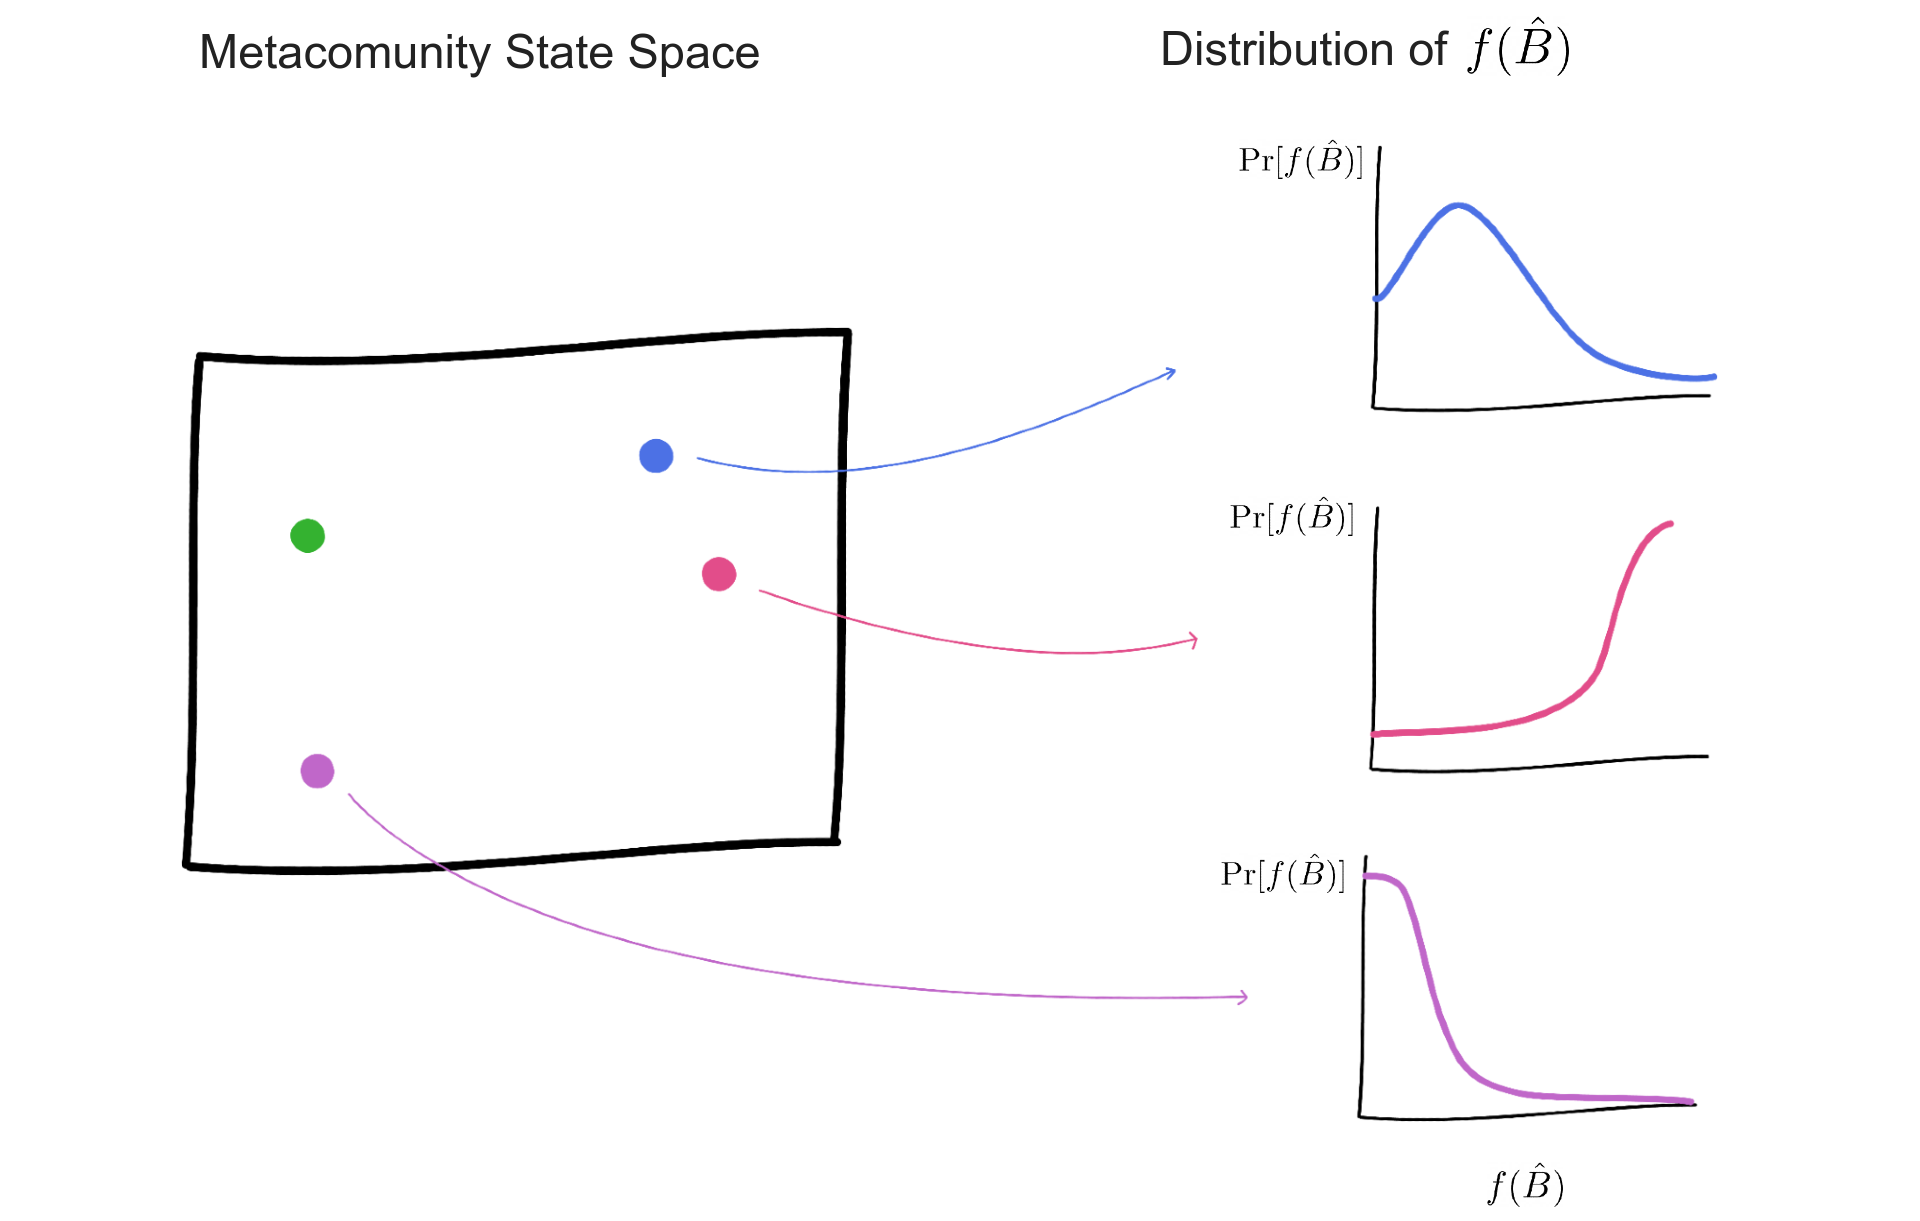
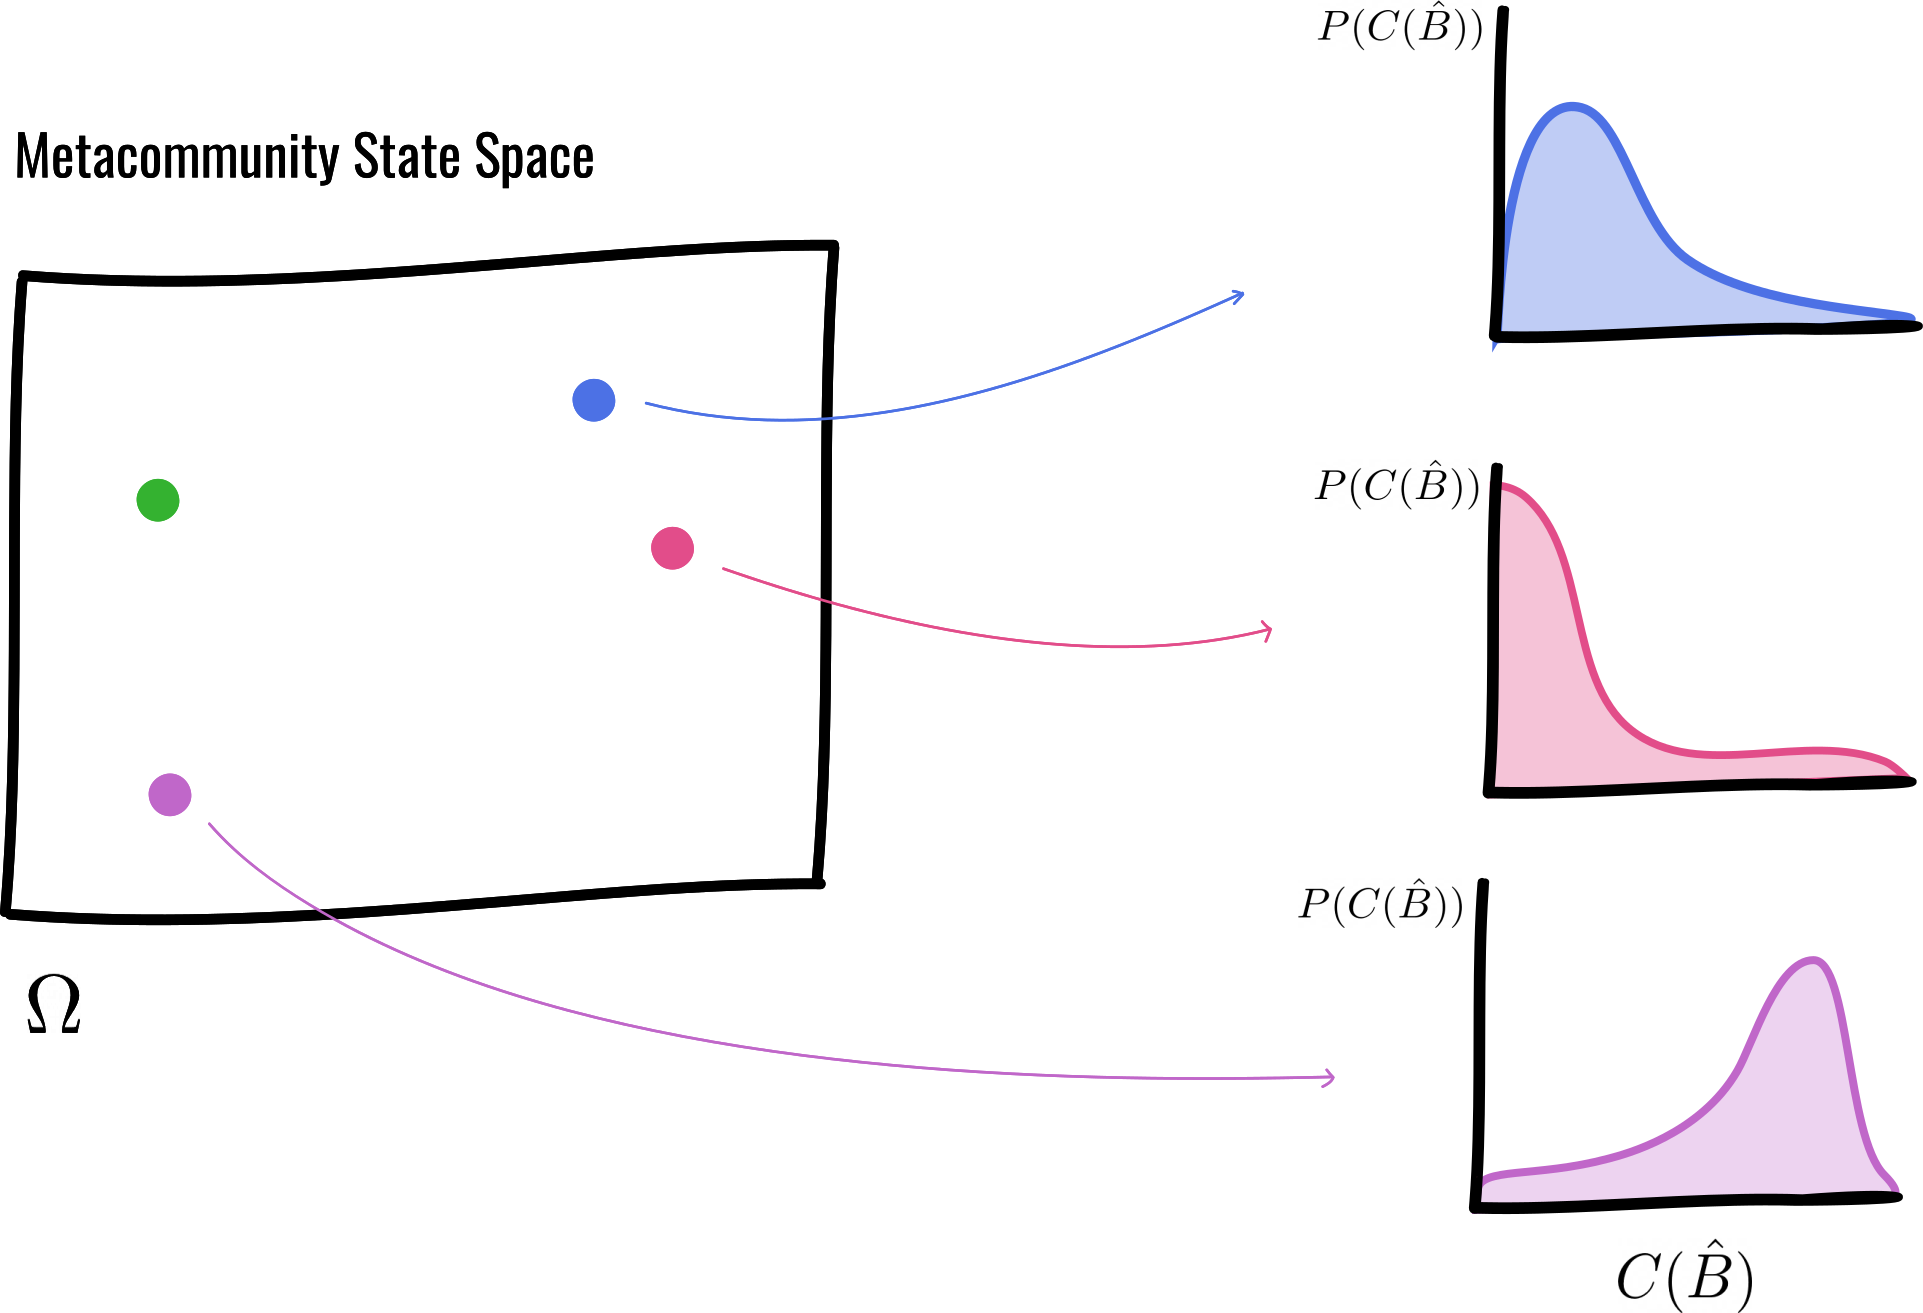
remade some figures

diff --git a/tex/preamble.tex b/tex/preamble.tex
@@ -24,6 +24,8 @@
 \predate{\begin{flushleft}\large}
 \postdate{\end{flushleft}}
 
+\usepackage{float}
+\floatplacement{figure}{H}
 
 \usepackage{morefloats}
 % or use \extrafloats{100}

diff --git a/prospectus.md b/prospectus.md
@@ -87,7 +87,11 @@ If $\hat{y} \approx  y$, we say our model $f$ is "good", and we Google "Nature s
 
 
 
-Many of the more popular methods (AIC, BIC, MDL, k-fold crossvalidation) exist as What separates science from philosophy? For most of recorded human history, science and philosophy were not separate disciplines, and most languages didn't have words to distinguish a scientist from a philosopher.
+Many of the more popular methods (AIC, BIC, MDL, k-fold crossvalidation) follow the hueristic that models should maximize the ratio of the information they provide in predictive power to the amount of information they contain in their definition. 
+
+
+
+What separates science from philosophy? For most of recorded human history, science and philosophy were not separate disciplines, and most languages didn't have words to distinguish a scientist from a philosopher.
 
 > In fact, the sciences, arts, and philosophies are all equally creators. . . Concepts do not wait for us ready-made, like celestial bodies. There is no heaven for concepts. They must be invented, fabricated, or rather created, and would be nothing without the signature of those who create them. (Deleuze & Guattari 1991)
 
@@ -95,27 +99,15 @@ I would contest science restricts itself to models that allow some interface bet
 
 
 
-To make a comparison between a model and "ground truth", there must be some way to observe and measure the concepts $A$. More formally, there must be some observation mapping $g: A \to \mathbb{R}^{d_1}$, where $d_1$ is the dimensionality of our measuremennt. And so scientific models inevitably create a mapping between observable states of the concepts as we define them, and quantitative predicted outcomes, $f : g(A) \to \mathbb{R}^{d_2}$. (Generally, $d_2 << d_1$, otherwise we've just found a new way of shuffling around the same information in the data.)
+To make a comparison between a model and "ground truth", there must be some way to observe and measure the concepts $A$. More formally, there must be some observation mapping $O: A \to \mathbb{R}^{d_1}$, where $d_1$ is the dimensionality of our measuremennt. And so scientific models inevitably create a mapping between observable states of the concepts as we define them, and quantitative predicted outcomes, $f : O(A) \to \mathbb{R}^{d_2}$. (Generally, $d_2 << d_1$, otherwise we've just found a new way of shuffling around the same information in the data.)
+
+In Halley's model $A = \{\text{Sun}, \text{Jupiter}, \text{Saturn}, \text{Earth}, \text{Comet} \}$, and $O(A) = \{\text{mass}, \text{position}, \text{momentum}\}$.
 
 
 
+And so those who are interested in (building, designing, using, etc.) models face the task of defining $f$ in such a way that it (hopefully) makes accurate predictions.
 
-
-In Halley's model $A = \{\text{Sun}, \text{Jupiter}, \text{Saturn}, \text{Earth}, \text{Comet} \}$, and $g(A) = \{\text{mass}, \text{position}, \text{momentum}\}$.
-
-And so the question for those who are interested in (building, designing, using, etc.) models face the task of defining $f$ in such a way that it (hopefully) makes accurate predictions.
-
-We can broadly split models into two types: process models and statistical models (@mcelreath).
-
-Other types of statistical models (typically those that fall under the ambiguous banner "machine learning") do not define $f$ with much regard towards the actual concepts in $A$ at all, but instead are cleverly designed algorithms which can accurately map input conditions to output conditions in some cases.
-
-
-
-Models do many different things: hypothesis testing, inference, parameter estimation, forecasting,etc.
-
-
-
-Often, when we do science, models are only a bridge between the data we collect and actual hypotheses. See the figure below from @mcelreath.
+We can broadly split models into two types: process models and statistical models (@mcelreath). Other types of statistical models (typically those that fall under the ambiguous banner "machine learning") do not define $f$ with much regard towards the actual concepts in $A$ at all, but instead are cleverly designed algorithms which can accurately map input conditions to output conditions in some cases. Models do many different things: hypothesis testing, inference, parameter estimation, forecasting,etc. Often, when we do science, models are only a bridge between the data we collect and actual hypotheses. See the figure below from @mcelreath.
 
 
 
@@ -145,7 +137,7 @@ As an example, consider fitting a species-distribution model (SDM), $y = f(x, \t
 
 In a frequentist world, the likelihood function is a ubiquitous tool  for parameter inference. Most off-the-shelf statistical 'tests', e.g. `model = lm(y ~ a*x + b)`, are simply a repackaged likelihood function that can be used to  estimate parameters via maximum likelihood or any other frequentist  estimation method.  Similarly, in a Bayesian world, the likelihood  function is essential in the application of Bayes' theorem to inference,
 
-$$ P(\theta | \hat{x}) = \frac{P(\hat{x} | \theta)  P(\theta)}{P(\hat{x})} = \frac{\mathbb{L}(\hat{x}, \theta)  P(\theta)}{\int_\Theta \mathbb{L(\hat{x} | \theta)} P(\theta) d\theta}$$
+$$ P(\theta | \hat{x}) = \frac{P(\hat{x} | \theta)  P(\theta)}{P(\hat{x})} = \frac{\mathbb{L}(\hat{x}, \theta)  P(\theta)}{\int_\Theta \mathbb{L}(\hat{x} | \theta) P(\theta) d\theta}$$
 
 
 
@@ -193,6 +185,28 @@ Remaining questions:
 ## Community Structure
 
 The search for generality among ecological communities long flummoxed early ecologists, culminating in the aphorism that community ecology is "a mess" (citation).
+
+
+
+Early theoretical work on community structure begins with the Diversity-Stability "Paradox", largely attributed to  May's _Will a Large Complex System be Stable_ (@cite) and _Stability and Complex is Model Ecosystems_ (@cite). May's work considered both a linear system, $\dot{x} = A\vec{x}$, and a generalized Lotka-Volterra system, $\dot{x} = \vec{x} \odot (A \vec{x} + \vec{g})$, where $\vec{x}$ is a vector of abundances, $\vec{g}$ is a vector of change in abundance absent any comsumption and $A_{ij}$ between any species $i$ and $j$ is the interaction strength^[itself a term fraught with ambiguity] . 
+
+
+
+May' computations showed that as the number of species $N_s$ in the randomly generated food-web $A$ increased, the probability that the system persists approaches $0$. There is where the so-called 'paradox' lies--we observe food-webs in nature that are interwoven between far more species than we would expect under May's neutral model, and so naturally the study of complexity in food webs turned to both understanding the processes that structure food webs such that they can persist, and developing methods to infer the structure of ecological networks.  
+
+
+
+What is 'stable'? Fixed-point stability in a determinstic system. One can compute the stability of a fixed-point by checking if the eigenvalues of the Jacobian around any fixed point. For both of these model, the Jacobian around a fixed point is always the adjacency matrix, and so without computing any Jacobians we can simply check if $\{ \text{Re}(\lambda) < 0 \}  \ \ \forall\lambda$ to determine if the system has a fixed-point attractor. This is a method of computing Lyapunov-stability of a fixed point in a system, and was tractable for the computers of the time.
+
+May's used a generative model of community structure where all terms $$A_{ij} \sim Bernoulli(p)$$. This is the same as the graph generator $G(n,p)$, (Erdos). 
+
+Both in network science and ecology, generative models of network structure have turned to embedding the verticies in a latent space from which one follows a set of rules to determine which edges $A_{ij}$ exist. In ecology, the latent-space is typically a proxy for trophic-level or allometric scaling, beginning with the Cascase model (cite), drawing much more attention with the Niche model (@williams_martinez), and culminating in a generalized multi-dimensional niche model with a likelihood function that can be used to estimate latent parameters from empirical food webs.
+
+
+
+
+
+
 
 
 
@@ -302,10 +316,20 @@ Generative models?? Why do we need generative models--
 
 four parts:
 
-1. Community Model: the topology of the metaweb $A$, and the way the biomass flows through the metaweb, $\frac{\partial B}{\partial t}$
-2. Spatial Model: we have some set of locations ${x}$  in a spatial domain $S$. Each location $x$ is associated with a value of habitat suitability $H_i(x)$ for each species $i$, and a dispersal potential $\Phi_i(x \to y)$, which is the instantaneous probability that a unit of biomass from species $i$ moves from $x \to y \quad \forall x,y \in S$.
-3. Selection Model: how do the traits $T_i(x,t)$ of a species $i$  at a location $x$ at time $t$ change?   $\frac{\partial T_i(x,t)}{\partial t} = w (H_i(x,t), T_i(x,t))$
+1. Community Model: $\{A, \frac{\partial B}{\partial t}\}$
+
+   The topology of the metaweb $A$, and the way the biomass flows through the metaweb, $\frac{\partial B}{\partial t}$
+
+2. Spatial Model: $\{\Phi, L\}$
+
+   we have some set of locations ${x}$  in a spatial domain $S$. Each location $x$ is associated with a value of habitat suitability $H_i(x)$ for each species $i$, and a dispersal potential $\Phi_i(x \to y)$, which is the instantaneous probability that a unit of biomass from species $i$ moves from $x \to y \quad \forall x,y \in S$.
+
+3. Selection Model:
+
+    how do the traits $T_i(x,t)$ of a species $i$  at a location $x$ at time $t$ change?   $\frac{\partial T_i(x,t)}{\partial t} = w (H_i(x,t), T_i(x,t))$
+
    1. phylogenetic reading
+
 4. Community Summary Model  $C(\vec{B})$
 
 
@@ -387,12 +411,12 @@ $$\frac{\partial T_i(x,t)}{\partial t} = f(T_i(x), H_i(x))$$
 ## 4. Measuring (Meta)community Structure
 
 - $\hat{B}$ -- observed community at some time $t$ and some location $x_j$
-- types of measures of network structure
-  - $f({\hat{B}})$, singular.
-    - a measure of $\alpha$-div
+- types of measures of network structure, $C$ 
+  - $C({\hat{B}(L_i)})$, singular.
+    - a measure of $\alpha$-div at local community level
     - most classic measures, Shannon entropy, etc.
-  - $f(\hat{B}(x_j), \hat{B}(x_k))$, measure of difference between two networks, $\beta$-diversity
-  - $G(B)$ , measures of total structure across all locations (and times?),  $\gamma$-diversity
+  - $C(\hat{B}(x_j), \hat{B}(x_k))$, measure of difference between two networks, $\beta$-diversity
+  - $C(\hat{B})$ , measures of total structure across all locations (and times?),  $\gamma$-diversity
 
 
 \pagebreak
@@ -407,19 +431,43 @@ Okay...but how do you classify the 'stability' of a non-equilibrium system---
 
 
 
-![this is a caption](/home/michael/prospectus/figures/density_plot.jpg)
-
-
-
-ff
+![this is a caption](/home/michael/prospectus/figures/density_plot.png)
 
 
 
 
 
-![this is the punchline](/home/michael/prospectus/figures/different_scenarios.png)
+![Conceptual overview of Approximate Bayesian Computation (ABC). The version of an ABC Sampler presented here is methodologically the simplest (and original) version, based on using a simulated likelihood to run a rejection-based sampling MCMC algorithm. In panel 2 (top-right), to actually compute $\mathbb{L}(\hat{y} | \theta)$ from simulation outputs, traditionally one defineds an acceptance tolerance $\rho$, and accepts $\hat{y} - y_{sim} < \rho$ . Alternatively, one can run some regression on the on the simulation outcomes to get an analytic approximation of $\mathbb{L}(\hat{y} | \theta)$.  More recent improvements to ABC sampling deviate from simple rejection sampling algorithms for efficiency, e.g. doing rejection sampling whilst composing the simulated likelihood to reduce the amount of time spent running the simulation model in "bad" regions of parameter space---see Adaptive Monte Carlo [@beaumont_adaptive_2009] and Sequential Monte Carlo [@cite].](/home/michael/prospectus/figures/abc_conceputal.png)
 
-What does the software do?
+
+
+![This is the end goal of the dissertation. Build software that can forecast the future state of metacommunity structure under proposed forecasts of land-use/climate change, both for the data I apply it to, but also be generalizable to different systems.](/home/michael/prospectus/figures/different_scenarios.png)
+
+
+
+
+
+![From Poisot et al. (@poisot_2015). Original Caption _An illustration of the metaweb concept. In its simplest form, a metaweb is the list of all possible species and interactions between them for the system being studied, at the regional level (far left side)Everything that is ultimately observed in nature is a realisation of themetaweb (far right side), i.e. the resulting network after several sorting processes have occurred (central panel). First, species and species pairs have different probabilities to be observed (top panels). Second, as a consequence of the mechanisms we outline in this paper, not allinteractions have the same probability to occur at any given site (bottom panels, see Box 1)._](/home/michael/prospectus/figures/poisot_metaweb_figure.png)
+
+
+
+![From Gonzalez et al. (@gonzalez_bef_2020). Original caption: _Figure 5 Right: Satellite image of an agricultural landscape with remnant forest fragments. Left: Predictions for the change in BEF slope as the scale of
+observation increases for three landscapes with varying degrees of fragmentation (simulated data). Top row: Stylised landscapes with different patterns
+of fragmentation of forest habitat (dark green) and surrounding agriculture (white background): (a) homogeneous forest (x = northing, y = easting), (b)
+fragments with varying diversity (circle size) and productivity (circle greenness), with links indicating connectivity by seed dispersal, (c) isolated fragments
+with lower average diversity and productivity and fewer links. At each scale of observation, denoted by the coloured sampling windows in (a–c), species
+richness and productivity are measured at different locations across a landscape by sliding the window. Middle row: Change in the linear relationship
+between species richness and productivity at different scales of observation for each landscape type (d–f). Each coloured line is composed of measurements
+of species richness and productivity from multiple windows at a given scale. Species richness and productivity increases with the spatial scale of observation
+for all three landscape types but the form of the BEF relationship varies. Bottom row: Change in the BEF slope as a function of the scale of observation
+for each landscape type (g–i). Each point corresponds to the value of the slope of the line of same colour in the respective above figure. At a small
+sampling scale (orange window in (a)) the BEF slope is low and similar in all three landscape types (orange points in (g–i). At that scale, species richness
+and productivity are small and not affected by fragmentation (orange lines in (d–f)). At an intermediate sampling scale (red window in (a)), the BEF slope
+increases in all three landscape types. At that scale, sampling windows accounted for more species richness and higher level of productivity leading to stronger BEF effects. While fragmentation has reduced both biodiversity and productivity (red lines in (d–f)), no notable impact on the BEF slope is observed at this scale (red points (h–i)). At a large sampling scale (blue) the BEF slope decreases in the homogeneous landscape (a, d, g) since most species have already been sampled producing no additional biodiversity effects on productivity. However, when fragments are isolated (c), even if species richness and productivity are lower (f), a wide range of species richness and productivity are sampled (blue line in (f)) leading to an increase in BEF slope (blue point in (i)). The effect of species turnover on the BEF slope is also observed, although to a lesser degree, in the landscape with linked fragments (b, e, h) since species turnover is reduced by the ability of species to disperse across the landscape. At the largest sampling scale (green window in a) the BEF slopes decrease in all three landscape types but at different levels (green points in (g–i)). While productivity is higher at that scale, species richness is similar in all sampling windows (green lines in (d–f))._](/home/michael/prospectus/figures/gonzalez_ef_es.png)
+
+
+
+ What does the software do?
 
 - software that is modular and can be fit to data in real systems in multiple ways
   - you can provide, $A$, or $S$, different versions of a selection function $S$
@@ -516,6 +564,4 @@ Poisot 2014 model of interaction networks. Relates to the properties we can meas
 \pagebreak
 
 # References 
-
-\pagebreak
 
